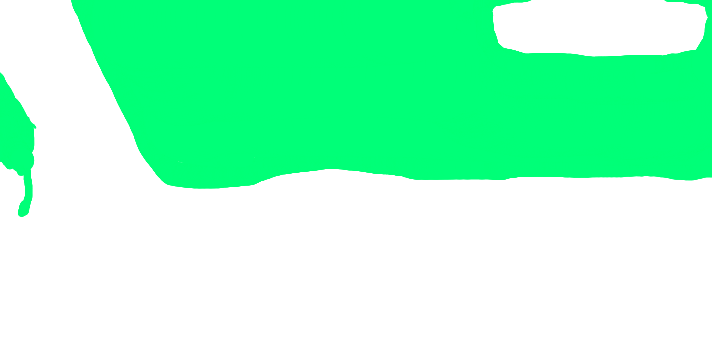
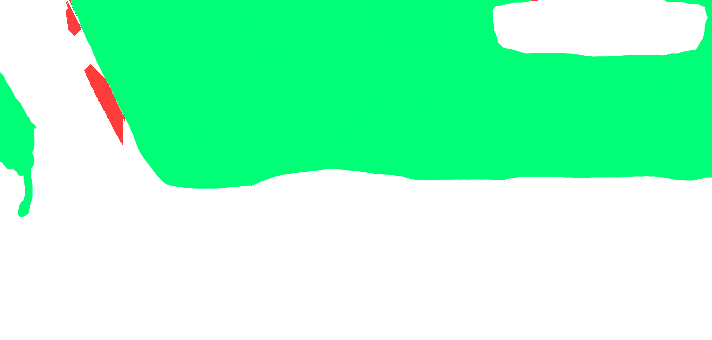
A-oszlop: szegély-védelem a carveTransparent-ben + automatikus KERET-vonások a kézi maszkra (1355 px) — a pillér fényes széle már nem átlátszó

Changed region(s): [[0.1236, 0.1765, 0.1854, 0.4118], [0.0927, 0.0, 0.1236, 0.1176]]

diff --git a/src/mask.js b/src/mask.js
@@ -117,6 +117,29 @@ export function carveTransparent(d, W, H, seeds, opt = {}) {
       if (darkN >= 3 && ((darkL && darkR) || (darkU && darkD))) d[p * 4 + 3] = 255;
     }
   }
+
+  // A sötét szerkezetek (A-oszlop, tető, ablakkeret) VILÁGOS fénycsíkjait a
+  // flood is kimarhatja: az oszlop élén foga-szabálytalan, átlátszó sáv fut
+  // végig, amin átlátszik a 3D világ. A sötét magból kifelé 3 rétegnyi
+  // szegély-pixelt visszaállítunk (a megmaradt, fedő szegélyen át nincs
+  // távolabb terjedés), így a keretek fedettek maradnak.
+  const isDarkCore = (i) => Math.max(d[i], d[i + 1], d[i + 2]) < darkB - 20;
+  const restored = new Uint8Array(W * H);
+  for (let pass = 0; pass < 3; pass++) {
+    let changed = false;
+    for (let y = 1; y < cleanH - 1; y++) {
+      for (let x = 1; x < W - 1; x++) {
+        const p = y * W + x;
+        if (d[p * 4 + 3] !== 0) continue;
+        const nearDark = pass === 0
+          ? isDarkCore((p - 1) * 4) || isDarkCore((p + 1) * 4) ||
+            isDarkCore((p - W) * 4) || isDarkCore((p + W) * 4)
+          : restored[p - 1] || restored[p + 1] || restored[p - W] || restored[p + W];
+        if (nearDark) { d[p * 4 + 3] = 255; restored[p] = 1; changed = true; }
+      }
+    }
+    if (!changed) break;
+  }
   return carved;
 }
 

diff --git a/public/mask-editor.html b/public/mask-editor.html
@@ -216,6 +216,24 @@ function carveTransparent(d, W, H, seeds, opt = {}) {
       if (darkN >= 3 && ((darkL && darkR) || (darkU && darkD))) d[p * 4 + 3] = 255;
     }
   }
+  // sötét szerkezet (A-oszlop) fényes szegélyének megvédése (lásd src/mask.js)
+  const isDarkCore = (i) => Math.max(d[i], d[i + 1], d[i + 2]) < darkB - 20;
+  const restored = new Uint8Array(W * H);
+  for (let pass = 0; pass < 3; pass++) {
+    let changed = false;
+    for (let y = 1; y < cleanH - 1; y++) {
+      for (let x = 1; x < W - 1; x++) {
+        const p = y * W + x;
+        if (d[p * 4 + 3] !== 0) continue;
+        const nearDark = pass === 0
+          ? isDarkCore((p - 1) * 4) || isDarkCore((p + 1) * 4) ||
+            isDarkCore((p - W) * 4) || isDarkCore((p + W) * 4)
+          : restored[p - 1] || restored[p + 1] || restored[p - W] || restored[p + W];
+        if (nearDark) { d[p * 4 + 3] = 255; restored[p] = 1; changed = true; }
+      }
+    }
+    if (!changed) break;
+  }
   return carved;
 }
 

diff --git a/BACKLOG.md b/BACKLOG.md
@@ -18,7 +18,7 @@ Címkék: `[P1]` magas, `[P2]` közepes, `[P3]` alacsony/ötlet · `[x]` = kész
 - [x] **3. Sáv-függő időfogyás vizualizálása** — ×1,8 / ×1,35 / ×1 jelvény a KAPU-IDŐ panelen (piros/narancs/zöld), az `engine.drainRate()` effektív ütemét mutatja frame-enként
 - [x] **4. Középső sáv + foglalt jobb sáv → ne fogyjon gyorsabban** — ha a tőlünk jobbra lévő sáv foglalt, az óra 1,0×-szal fogy (`drainRate` kivétel; a jelvény ilyenkor is ×1-et mutat); UÉS: aktív előzés — ha a jobb szomszéd-sávban van kocsi (előre 9 / hátra 15 m belül, `TRAFFIC.passAhead/passBehind`), szintén ×1,0× fogyás, így az előzés nem büntet
 - [x] **5. Mobil játszhatóság** — diagnózis + javítás: a start-overlay görgethető (`overflow-y: auto`) és mobilon kompakt (egyoszlopos szabályok, kisebb cím, fekvő nézetben alcím nélkül), így az INDÍTÁS gomb mindig elérhető; a halott ▲/▼ (gáz/fék) touch-gombok törölve; a HUD-tipp és a tipp-kör szövege érintőn touch-üzemű (◀ ▶ / ❮ ❯), a hint-box balra igazítva (nem lóg a km/h-ra); kisebb képernyőn pixelratió 1,75× (könnyebb render); **teljes képernyős mód mobilon** — az INDÍTÁS-koppintás (gesztus) belép a Fullscreen API-val, ⛶ gomb ki/be kapcsol (csak érintőn látszik); iPhone Safari-n nem támogatott, ott a gomb rejtve marad, de a „Kezdőképernyőhöz adás" (standalone) teljes képernyőt ad (apple-mobile-web-app-capable meta)
-- [ ] **6. Cockpit-maszk kézi javítása** — ✅ a `public/mask-editor.html` rajzoló tool kész (ÜVEG/KERET ecset, méret, zoom+pan, 3 nézet, undo/vázlat, handmask.png letöltés+betöltés, az algoritmikus maszk előnézete) + ✅ `applyHandMask` a mask.js-ben, a játék betölti a `handmask.png`-t (hiányakor az algoritmikus maszk marad) — ⏳ hátra: az üveg-területek kézi berajzolása a szerkesztővel, majd éles ellenőrzés (A-oszlop/műszerfal-tető élek)
+- [ ] **6. Cockpit-maszk kézi javítása** — ✅ rajzoló tool (`public/mask-editor.html`: ÜVEG/KERET ecset, zoom+pan, 3 nézet, undo/vázlat, letöltés+betöltés) + ✅ `applyHandMask` + ✅ üveg-területek berajzolva a szerkesztővel (`public/handmask.png`) + ✅ **A-oszlop átlátszóság javítva**: (1) a flood a sötét szerkezet (A-oszlop) fényes szegélyét is kimarja → 3-pass szegély-védelem a `carveTransparent`-ben (a sötét magból kifelé 3 réteg visszaáll), (2) az algoritmus által kimarott, fedetlen szegély-pixelekre automatikus KERET-vonások kerültek a `handmask.png`-be (BFS ≤20 lépés a sötétből, a tükör-lyuk és a zöld kizárva; 1355 piros px, élesben ellenőrizve: fogak fedettek, tükör/üveg átlátszó maradt) — ⏳ hátra: éles ellenőrzés (A-oszlop/műszerfal-tető élek)
 - [ ] **7. Kanyargós autópálya + gazdagabb környezet** — látvány-szintű görbület (`roadShift(z)`, a sim marad egyenes); épületek, felüljáró, bokrok, sziklák, fafajták, km-táblák (mind instanced)
 - [ ] **8. Több autómodell** — 3-6 új CC0/CC-BY low-poly (kisautó, furgon, busz, pickup, taxi, rendőr), Draco-GLB, típusonként elosztva; források a MODELS.md-ben
 
